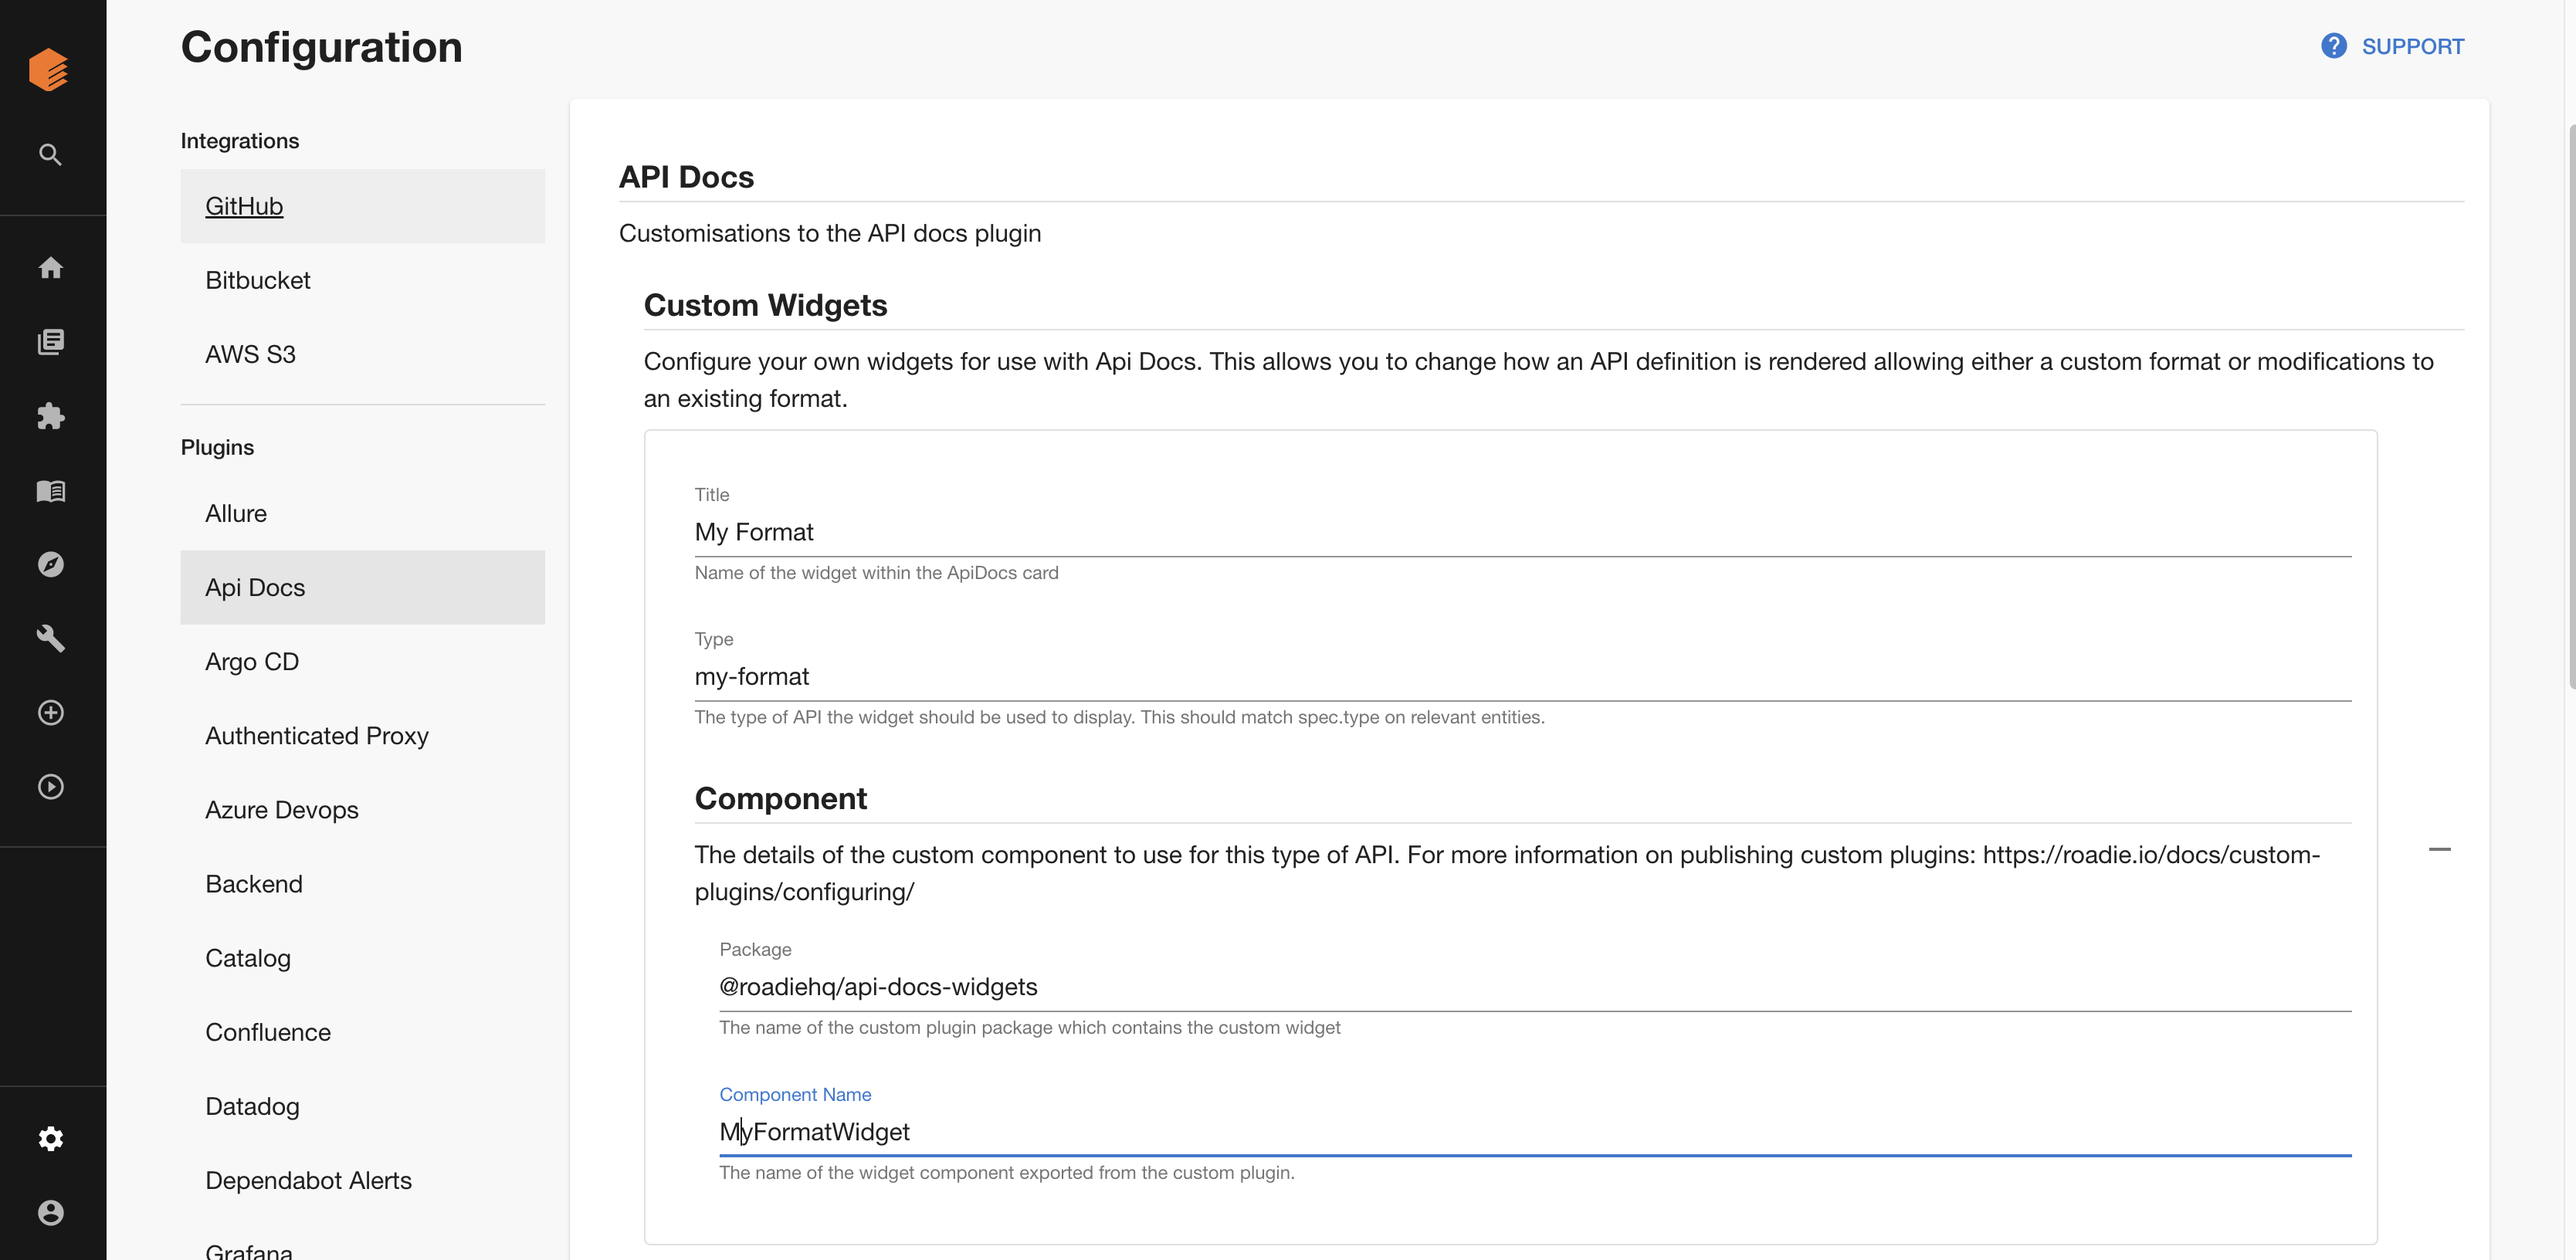
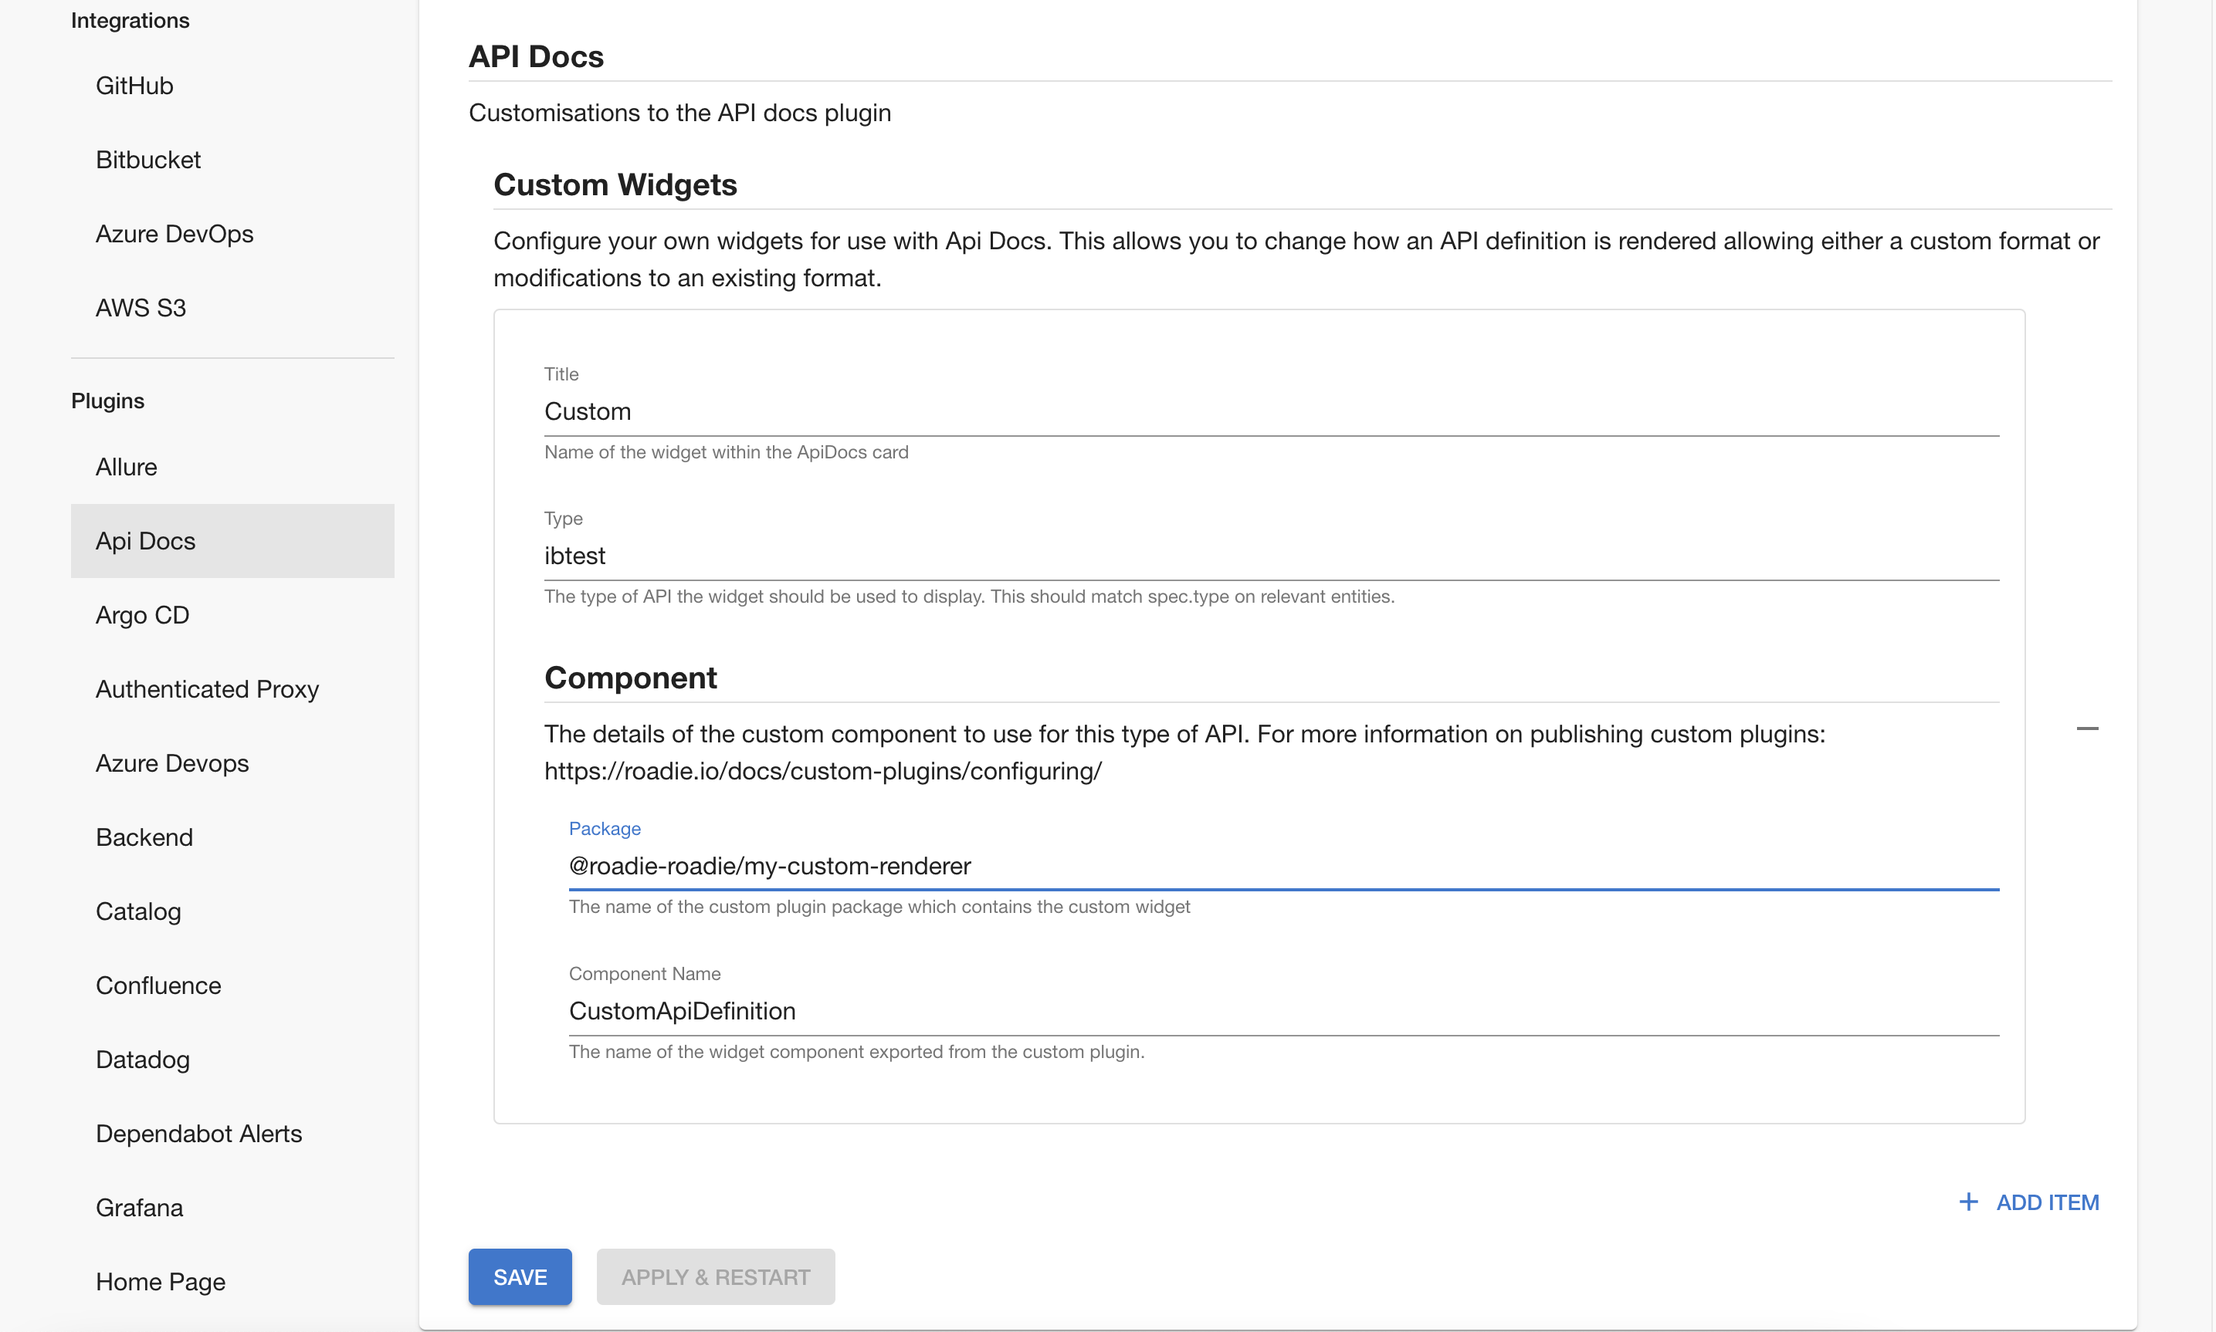
Updating tech-docs: https://github.com/RoadieHQ/marketing-site/pull/880

diff --git a/docs/details/custom-api-docs-renderers/index.md b/docs/details/custom-api-docs-renderers/index.md
@@ -10,20 +10,59 @@ a renderer in roadie.
 
 ## Step 1: Write a custom renderer
 
-Write a [custom API docs renderer](https://www.npmjs.com/package/@backstage/plugin-api-docs#custom-api-renderings). 
-This is a React component which takes the API definition as a prop and renders it.
+A [custom API docs renderer](https://www.npmjs.com/package/@backstage/plugin-api-docs#custom-api-renderings) is a React 
+component which takes the API definition as a prop and renders it.
 
-## Step 2: Publish your custom renderer
+For example, the simplest custom renderer which just prefixes the definition would be something like this:
 
-Read [the docs on custom plugins](../../custom-plugins/configuring) and publish a plugin which exports your custom renderer.
-Be sure to configure the renderer as a component with ApiDocsWidget type.
+```typescript jsx
+import React from 'react';
+import { Typography } from '@material-ui/core';
 
-## Step 3: Configure the renderer in settings
+export const CustomApiDefinition = ({ definition }: { definition: string }) => (
+  <Typography>Custom format: {definition}</Typography>
+);
+```
 
-It is necessary to configure the type of entity the custom renderer applies to in settings at /administration/settings/api-docs.
-First click "add item" then enter the custom renderer information. The type should match the `spec.type` field on API entities
-this should be used to render. The title is showed as the name of the format in the API docs card. The component is then 
-specified and this should match the custom component registered in step #2 
+Ensure that the component is exported from the plugin:
+
+```typescript
+// src/index.ts
+export {
+  customApiDefinitionPlugin,
+  CustomApiDefinition,
+} from './plugin';
+```
+
+## Step 2: Configure your custom plugin
+
+Navigate to the custom plugins page `/administration/custom-plugins` and click "Add new plugin". Then enter your plugin's
+details.
+- The plugin package should match the name in your plugin's package.json matching this convention `@<tenant>-roadie/<your plugin>`.
+- The plugin name should be the name of the exported plugin variable (e.g. customApiDefinitionPlugin above)
+
+Then click "Add Component" and set the type to ApiDocsWidget and the name to the name of the exported custom renderer
+(e.g. CustomApiDefinition) and click "Save".
+
+![custom plugin config](./custom-plugin-config.png)
+
+## Step 3: Publish your custom plugin
+
+Read [the docs on custom plugins](../../custom-plugins/configuring) then build your package and publish to artifactory.
+
+In a nutshell:
+```
+yarn tsc && yarn build && yarn version && yarn publish
+```
+
+## Step 4: Configure the renderer in settings
+
+It is necessary to configure the type of entity the custom renderer applies to in settings at `/administration/settings/api-docs`.
+
+First click "add item" then enter the custom renderer information. 
+- The type should match the `spec.type` field on API entities this should be used to render. 
+- The title is showed as the name of the format in the API docs card. 
+- The component is then specified and this should match the custom component registered in step #2 
 (Caveat: it can take some time for a custom component to become available for use) 
 
 ![settings page](./settings.png)
